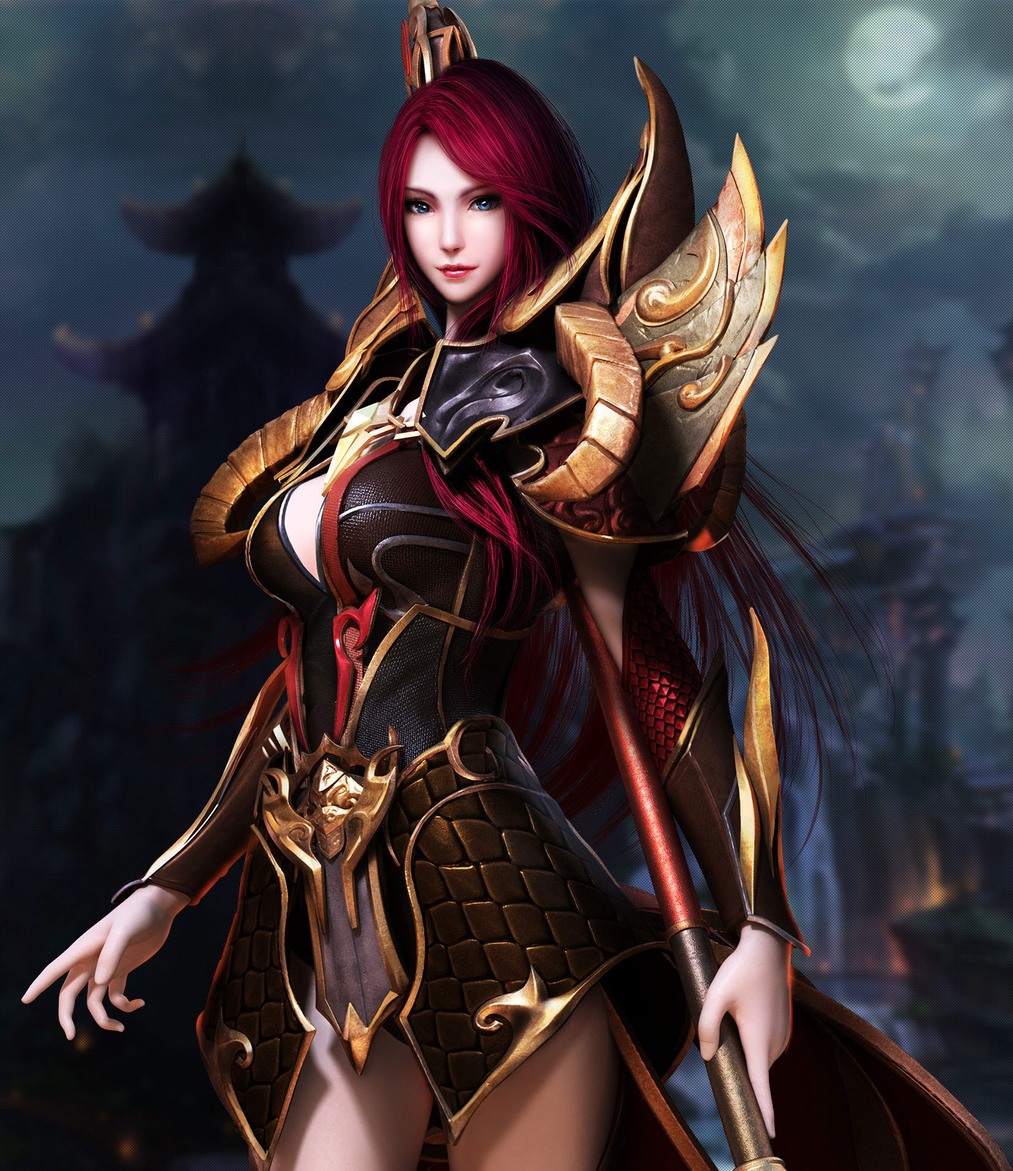
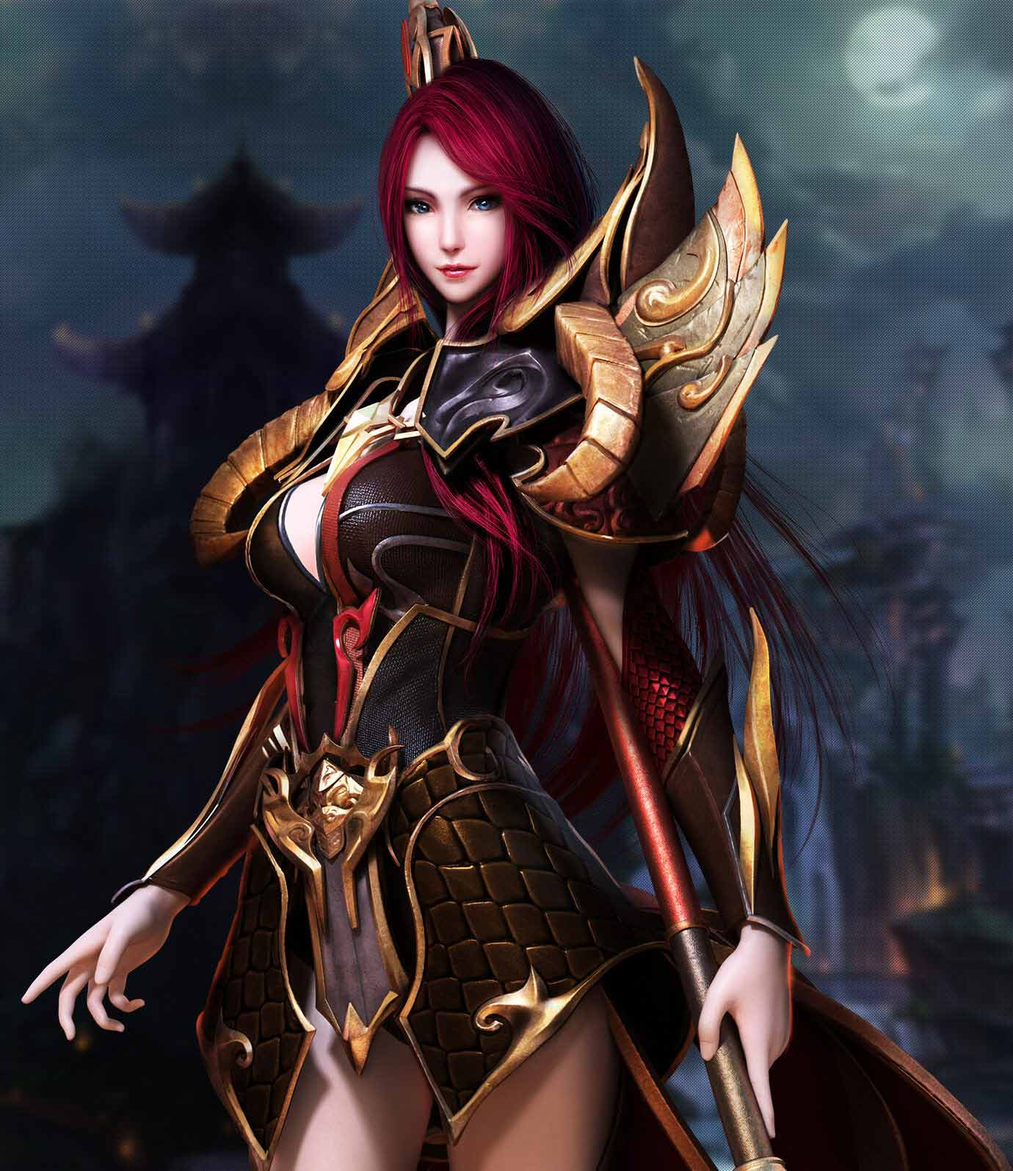
no message

diff --git a/src/css/style.css b/src/css/style.css
@@ -13,13 +13,8 @@ html, body {
 .clear {
     clear: both;
 }
-.devconsole {
-    position: absolute; 
-    right: 50%;
-    bottom: 0%;
-    width:100px;
-    height:100px;
-    background-color: red;
+.bigShake{
+    -webkit-animation:bigShake 0.5s 0.3s both;
 }
 .onload {
     width: 100%;
@@ -37,9 +32,13 @@ html, body {
     background: orange;
 }
 .rate {
-    margin-top: 100%;
+    position: absolute;
     text-align: center;
     color: orange;
+    top: 60%;
+    left: 50%;
+    width: 100px;
+    margin-left: -50px;
 }
 /* common */
 .page-wrap {
@@ -60,7 +59,7 @@ html, body {
 .page:first-child {
     background: url(../img/bg_1.jpg) no-repeat;
     background-size: auto 100%;
-    background-position: 69% center;
+    background-position: 70% 50%;
 }
 
 .page:nth-child(2) {
@@ -136,7 +135,7 @@ html, body {
 }
 .slogan2 {
     width: 60%;
-    top: 63px;
+    top: 35%;
     right: 0;
     position: absolute;
 }
@@ -211,8 +210,8 @@ html, body {
     .btns {
         bottom: 20%;
     }
+    
 }
-
 @media screen and (max-width: 400px) {
     .btn { 
     width: 130px;
@@ -448,6 +447,42 @@ a.page1-download {
     left: 41%;
 }
 /* 动画 */
+/******震动******/
+@-webkit-keyframes bigShake{
+  0%{
+    background-position: 70% 50%;
+  }
+  10%{
+    background-position: 75% 55%;
+  }
+  20%{
+    background-position: 65% 45%;
+  }
+  30%{
+    background-position: 70% 55%;
+  }
+  40%{
+    background-position: 75% 45%;
+  }
+  50%{
+    background-position: 67% 50%;
+  }
+  60%{
+    background-position: 70% 45%;
+  }
+  70%{
+    background-position: 75% 45%;
+  }
+  80%{
+    background-position: 75% 50%;
+  }               
+  90%{
+    background-position: 65% 45%;
+  }
+  100%{
+    background-position: 70% 50%;
+  }
+}
 /*上滑提示*/
 @-webkit-keyframes swipeMoveTop {
     0% {

diff --git a/src/js/common.js b/src/js/common.js
@@ -19,7 +19,7 @@ $(document).ready(function(e) {
 		"#p4-6"
 	];
 	loadImage(imgResource, function(){		
-		// $(".onload").remove();
+		$(".onload").remove();
 
 		new PageSlide({
         pages: $('.page-wrap .page'),
@@ -29,6 +29,10 @@ $(document).ready(function(e) {
 	        },
 	        // dev: 2
 	    });
+	    $(".page").addClass("bigShake");
+	    setTimeout(function(){
+			$(".page").removeClass("bigShake");
+		}, 800);
 	});
 	/***加载图片***/
 	function loadImage(resource, callback){
